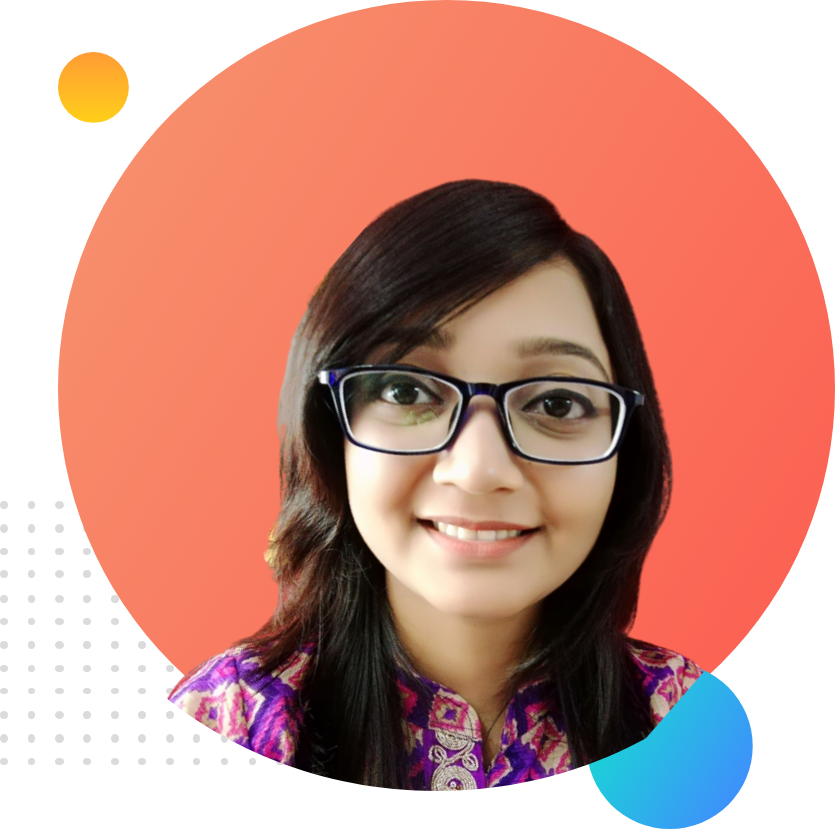
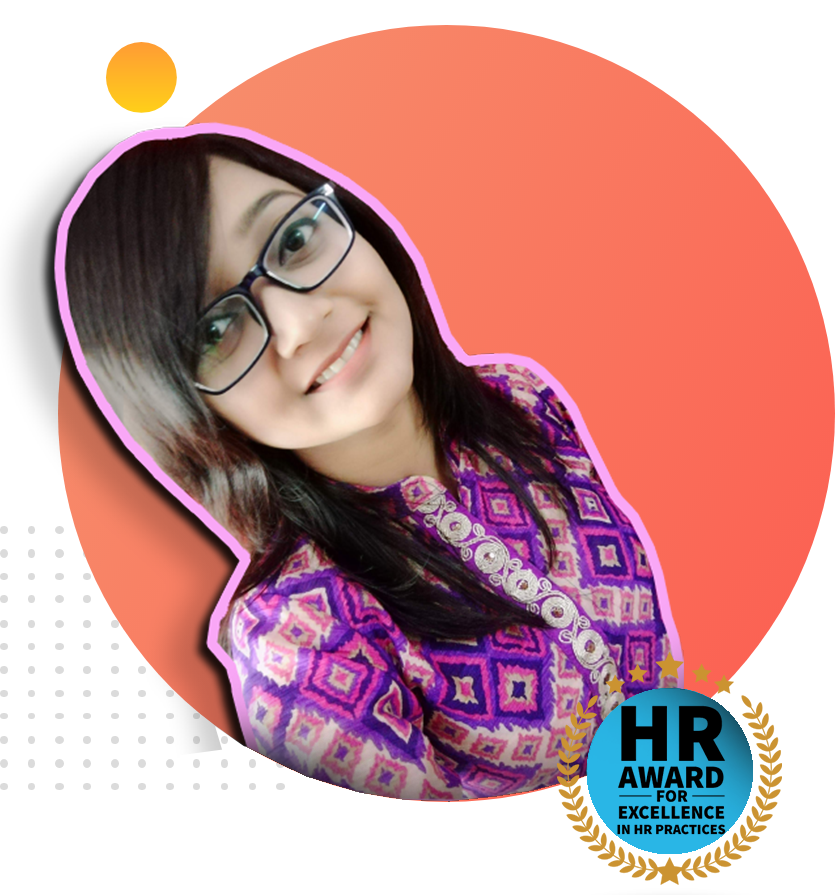
added

diff --git a/index.html b/index.html
@@ -29,6 +29,20 @@
         <div class="half-width"><img src="images/Nilima-pic with bg.png" alt="">
         </div>
     </section>
+    <section class="dream-big">
+        <div class="half-width"><img src="images/Nilima1-bg.png" alt="">
+        </div>
+        <div class="half-width">
+            <h1>Dream Big</h1>
+            <h3>Become a Web Developer</h3>
+            <p>
+                I already learned the basic HTML and CSS. I can build any simple website. I can even teach my grandma
+                how to make simple website. My goal is to build 3 websites and learn advanced topics.
+            </p>
+            <a class="link-button" target="_blank" href="">Download Resume</a>
+        </div>
+
+    </section>
 </body>
 
 </html>

diff --git a/style.css b/style.css
@@ -10,6 +10,7 @@ h1{
 }
 section{
     display: flex;
+    margin-bottom: 100px;
 }
 .half-width{
     width: 50%;
@@ -29,4 +30,9 @@ section{
 .top-banner{
     background-image: url(images/top-banner.png);
     background-repeat: no-repeat;
+}
+.dream-big{
+    background-image: url(images/dream-bg.png);
+    background-repeat: no-repeat;
+    background-position: right;
 }
